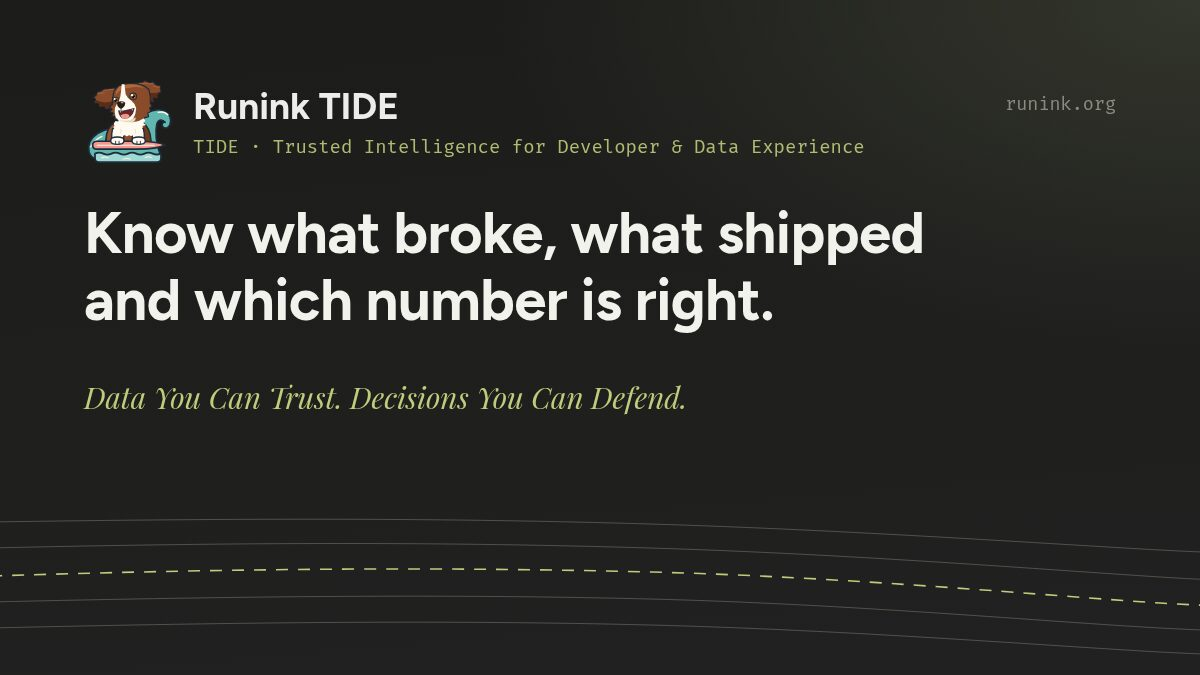
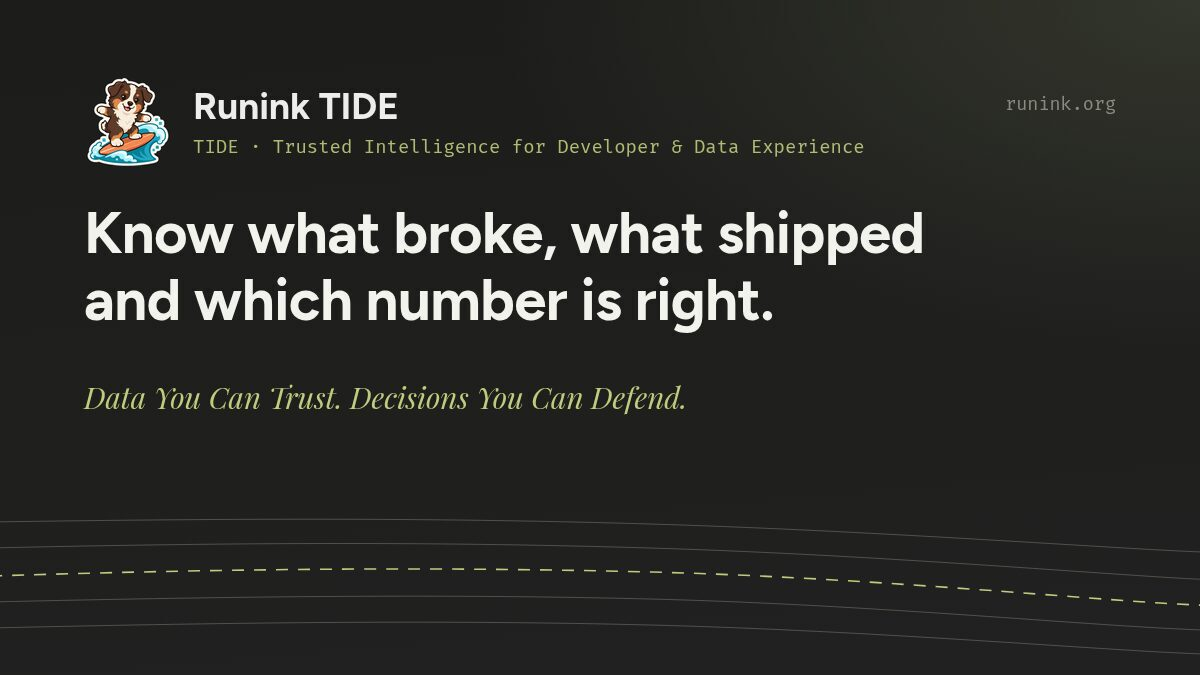
brand(tide): TIDE's product pages show the surfing pup (#328)
Owner, 2026-10-31: TIDE gets its own cartoon persona (a tricolor pup surfing
a teal wave). The TIDE product page lockup and closing band, the products
grid card and the TIDE share card (tide-og.jpg, used by /products/tide/ and
/products/tide-pricing/) now show it; static/images/brand/tide-mark.png is a
144 px render of the source kept in org-runink/tide (brand/runink-TIDE.png).
cards.json points the TIDE card at the PNG so the next render keeps it.

The Runink company mark (images/logo.png, the dog head) stays in the header,
footer, favicon and schema.org logo. The earlier TIDE SVGs are left in
static/images/brand/ unreferenced, for the owner to rename or retire.

Claude-Session: https://claude.ai/code/session_01KRjGSNotCUXkNDyVDJ2Uxp

Changed region(s): [[0.0617, 0.0933, 0.1542, 0.2489]]

diff --git a/layouts/partials/product/mark.html b/layouts/partials/product/mark.html
@@ -1,8 +1,7 @@
 {{- /* The logo on a product page. Runink's own products take the Runink dog head, drawn
      as a CSS mask so it takes the colour it sits on; a product with its own mark
-     (Runink River's puppy on a raft, Runink TIDE's puppy on a surfboard; BRAND.md "two logos")
-     passes its path as .logo. FACE keeps the dog head. Runink PULSE has its own persona,
-     but its page uses layout "landing" and shows it in the hero (shortcodes/hero.html). */ -}}
+     (Runink River's puppy on a raft, Runink TIDE's pup surfing a wave; BRAND.md "two logos")
+     passes its path as .logo. FACE and PULSE keep the dog head. */ -}}
 {{- $out := `<span class="rp-dog" aria-hidden="true"></span>` -}}
 {{- with .logo -}}
   {{- $out = printf `<img class="rp-logo" src="%s" alt="" width="64" height="64">` (. | relURL) -}}

diff --git a/assets/css/product.css b/assets/css/product.css
@@ -241,8 +241,8 @@ a.rp-card:hover { border-color: var(--rp-accent); transform: translateY(-2px); }
   .rp-print-mark { display: block; text-align: center; font-size: 0.85rem; color: #000; padding: 12px; }
 }
 
-/* A product with its own mark (Runink River's puppy on a raft, Runink TIDE's puppy on a
-   surfboard, each drawn in its own colours with a navy outline) shows it as drawn, at the
+/* A product with its own mark (Runink River's puppy on a raft, Runink TIDE's pup surfing a
+   wave, each drawn in its own colours) shows it as drawn, at the
    size the dog head takes. FACE and PULSE keep the dog head. */
 .rp-logo { display: block; flex: none; width: 44px; height: 44px; }
 .rp-lockup .rp-logo { width: 48px; height: 48px; }

diff --git a/content/products/tide.md b/content/products/tide.md
@@ -101,7 +101,7 @@ aliases: ["/products/core/"]
 # self-contained: no "it" that needs the line above to make sense.
 image: "/images/products/tide-og.jpg"
 rp:
-  logo: "/images/brand/tide-mark.svg"
+  logo: "/images/brand/tide-mark.png"
   lockup: "Runink TIDE: Trusted Intelligence for Developer & Data Experience"
   title: "Know what broke, what shipped and which number is right. On your servers, your cloud or ours."
   promise: "**Runink TIDE** is software from Runink that takes the repeat questions off your engineering, platform and data teams: why did it break, is the fix live, which dashboard is right, who changed this. Helpers draft the answer or the fix, and a named person approves it. Run it on Runink's shared machines, or on your own servers or cloud account so your data stays there; it is licensed by where it runs, and no plan sends your data to an outside AI service."

diff --git a/content/products/_index.md b/content/products/_index.md
@@ -26,7 +26,7 @@ items:
   - name: "Runink TIDE"
     full: "Runink TIDE: Trusted Intelligence for Developer & Data Experience"
     url: "/products/tide/"
-    logo: "/images/brand/tide-mark.svg"
+    logo: "/images/brand/tide-mark.png"
     line: "One console for your software, your AI models and agents, and your data, with its own model running on your servers, your cloud or ours. A product in its own right, sold separately."
   - name: "Runink PULSE"
     full: "Runink PULSE: Prescriptive Unified Lead & Social Engine"
